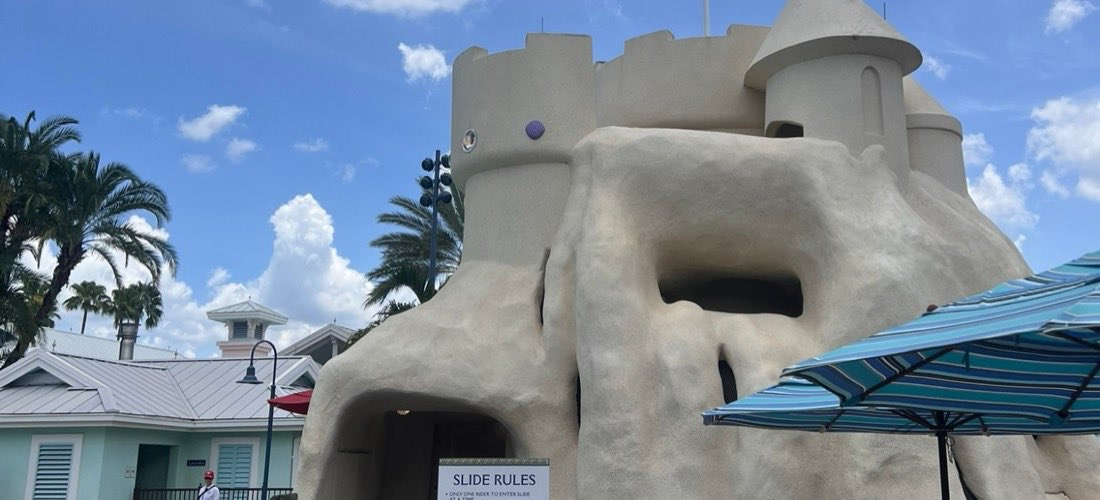
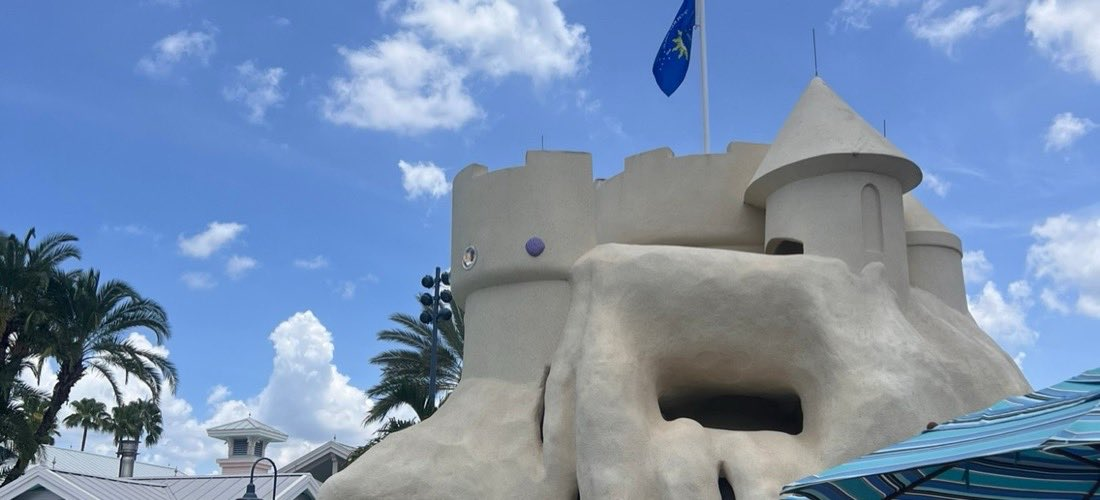
Pull the Old Key West crop back off the castle
Same fix as the Vero lobby: the band was cropped into the rockwork, so it
read as a beige wall. Raising it gives the castle sky around it, with the
flag, the palms and the pastel roofline for context. The lower bands take
in more pool but lose the castle and lead with a SLIDE RULES sign.

diff --git a/index.html b/index.html
@@ -416,7 +416,7 @@ function load(){try{const r=localStorage.getItem(KEY);if(r)db=JSON.parse(r);}cat
   let mig=false;const km={};db.trips.forEach(t=>{if(!t.bid){const k=(t.resort||'')+'|'+(t.dates||'')+'|'+t.uy;if(!km[k])km[k]=uid();t.bid=km[k];mig=true;}});if(mig)save();}
 function save(){try{localStorage.setItem(KEY,JSON.stringify(db));}catch(e){alert('Could not save — storage may be full (photos use space).');}}
 function uid(){return Date.now().toString(36)+Math.random().toString(36).slice(2,6);}
-const BUILD='2026.11.20-9';  /* bump when shipping — shown in the footer so a stale cached copy is identifiable */
+const BUILD='2026.11.20-10';  /* bump when shipping — shown in the footer so a stale cached copy is identifiable */
 const UY_MONTH={February:2,March:3,April:4,June:6,August:8,September:9,October:10,December:12};
 function bankingDeadline(m,y){const s=UY_MONTH[m];if(!s)return null;let mo=s+8,yy=y;if(mo>12){mo-=12;yy+=1;}const M=['January','February','March','April','May','June','July','August','September','October','November','December'];return M[mo-1]+' 1, '+yy;}
 function lastDay(m,y){return new Date(y,m,0).getDate();}
